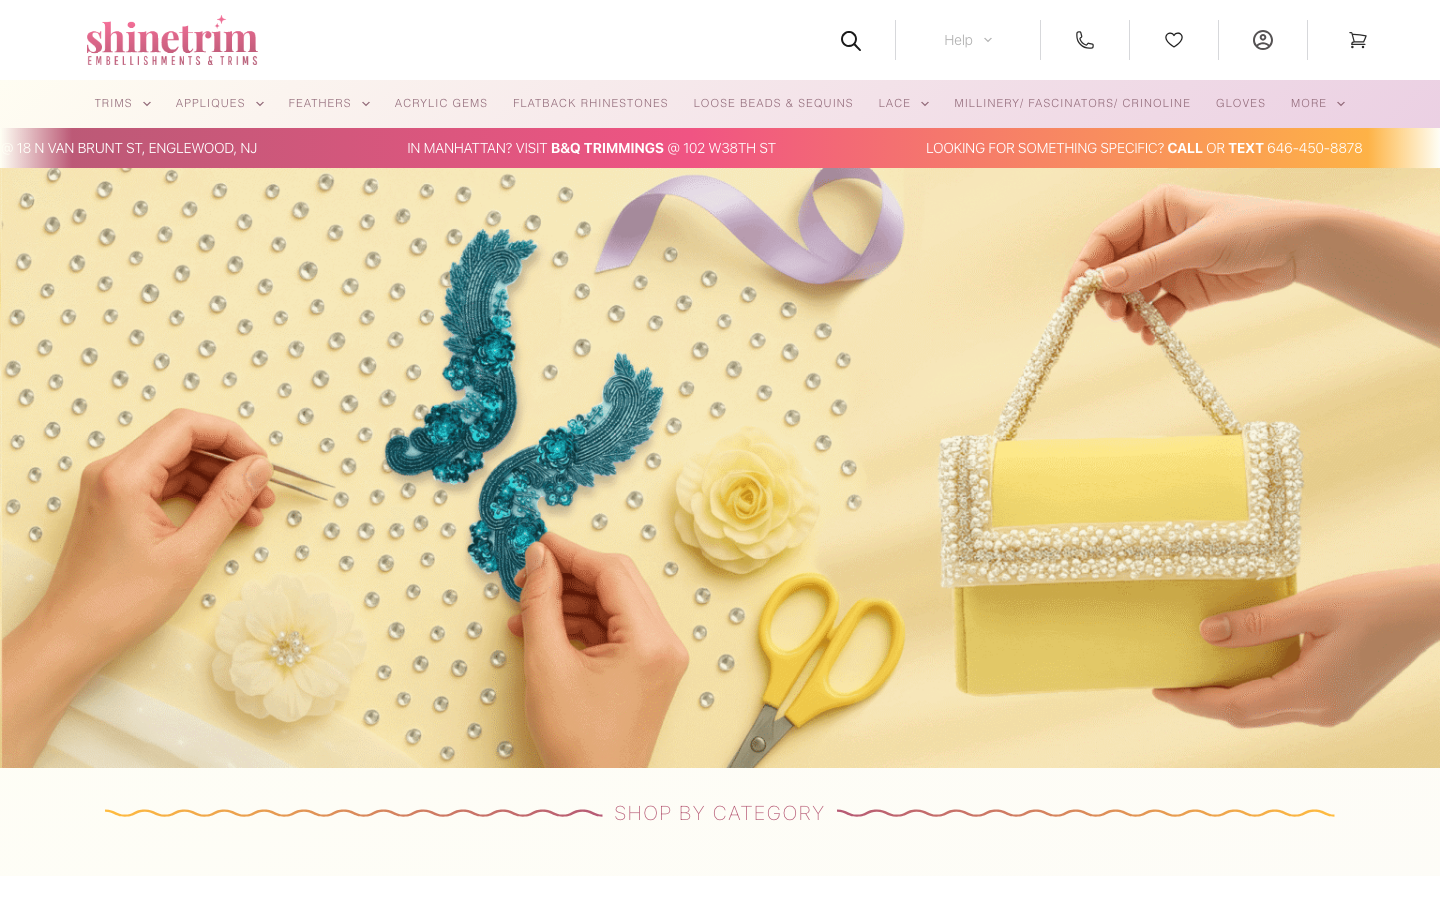
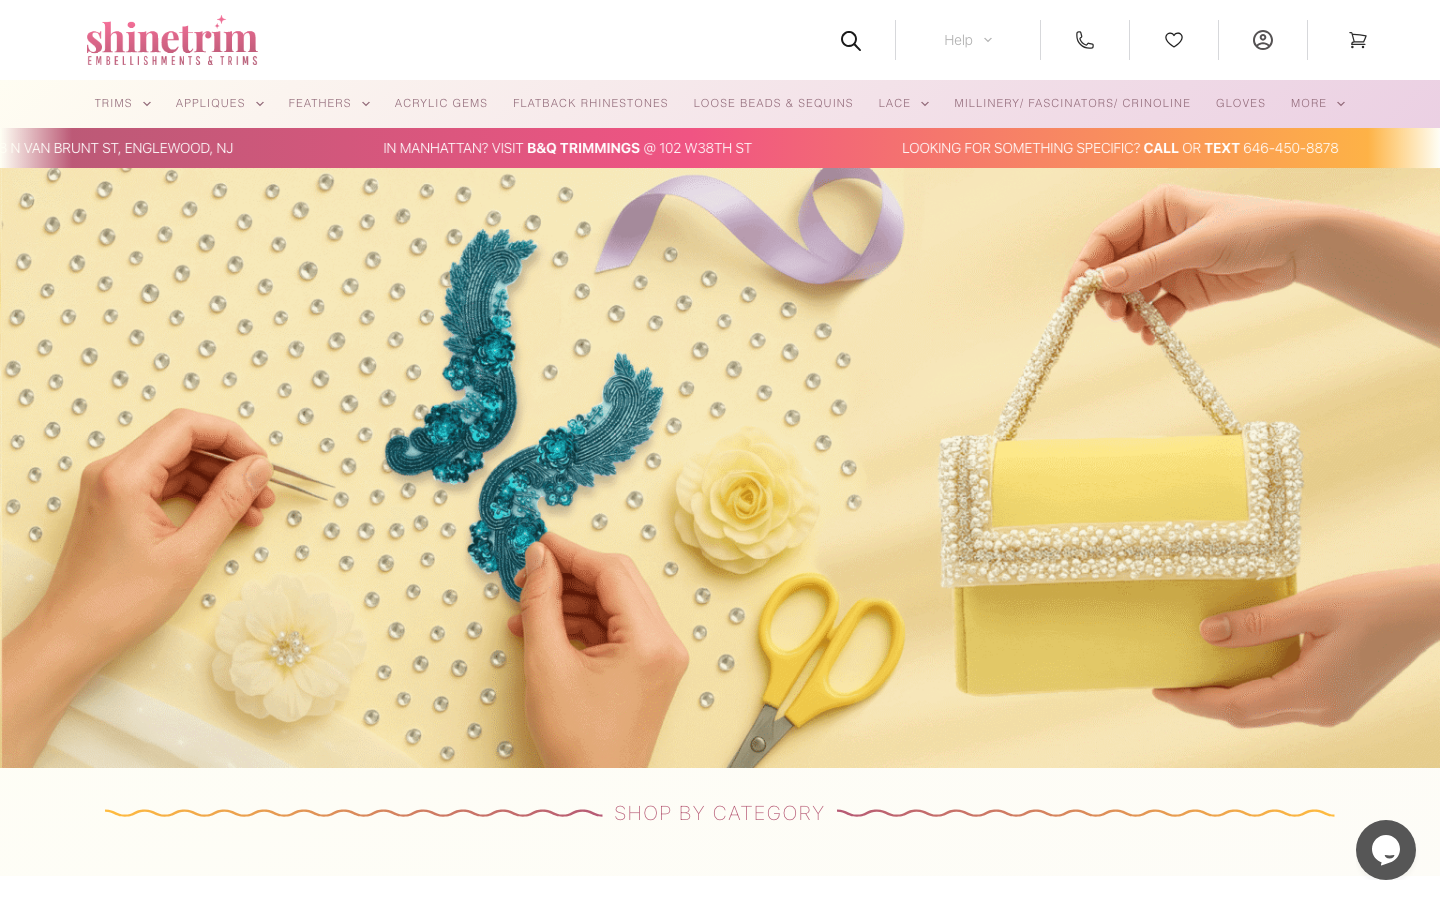
fix: retake all screenshots + script URLs + smart time tracker type
- Recapture all 8 client screenshots with correct URLs
- Fix script: byronbaycandles.com, dancewear.co.uk, remove kajalnaina
- Add UA spoof + CF detection + dual strategy to script
- Smart Time Tracker: type open-source → in-development

diff --git a/scripts/capture-screenshots.ts b/scripts/capture-screenshots.ts
@@ -3,51 +3,77 @@ import path from 'path';
 import fs from 'fs';
 
 const sites = [
-  { id: 'byronbaycandles', url: 'https://byronbaycandles.com.au' },
+  { id: 'byronbaycandles', url: 'https://byronbaycandles.com' },
   { id: 'gourmetbasket', url: 'https://gourmetbasket.com.au' },
-  { id: 'porselli', url: 'https://porselli.co.uk' },
+  { id: 'porselli', url: 'https://dancewear.co.uk' },
   { id: 'jackiemackdesigns', url: 'https://jackiemackdesigns.com' },
   { id: 'henryholsters', url: 'https://henryholsters.com' },
   { id: 'shinetrim', url: 'https://shinetrim.com' },
   { id: 'squadronnostalgia', url: 'https://squadronnostalgia.com' },
   { id: 'choiceammunition', url: 'https://choiceammunition.com' },
-  { id: 'kajalnaina', url: 'https://kajalnaina.com' },
 ];
 
 const outputDir = path.join(process.cwd(), 'public', 'screenshots');
 
+const CF_SIGNALS = ['just a moment', 'attention required', 'verify you are human', 'access denied', 'challenge-form'];
+
+function isCfChallenge(text: string): boolean {
+  const lower = text.toLowerCase();
+  return CF_SIGNALS.some((s) => lower.includes(s));
+}
+
 async function main() {
   fs.mkdirSync(outputDir, { recursive: true });
 
-  const browser = await chromium.launch({ headless: true });
+  const browser = await chromium.launch({
+    headless: true,
+    args: ['--no-sandbox', '--disable-setuid-sandbox'],
+  });
 
   for (const site of sites) {
     const outputPath = path.join(outputDir, `${site.id}.png`);
     console.log(`Capturing ${site.url}...`);
 
-    try {
-      const page = await browser.newPage();
-      await page.setViewportSize({ width: 1440, height: 900 });
-      await page.goto(site.url, { waitUntil: 'networkidle', timeout: 30000 });
+    let captured = false;
 
-      // Check for CF challenge
-      const title = await page.title();
-      if (title.toLowerCase().includes('just a moment') || title.toLowerCase().includes('attention required')) {
-        console.warn(`  CF challenge detected for ${site.url} — skipping`);
-        await page.close();
-        continue;
+    for (const waitUntil of ['load', 'domcontentloaded'] as const) {
+      if (captured) break;
+      try {
+        const context = await browser.newContext({
+          ignoreHTTPSErrors: true,
+          userAgent: 'Mozilla/5.0 (Macintosh; Intel Mac OS X 10_15_7) AppleWebKit/537.36 (KHTML, like Gecko) Chrome/120.0.0.0 Safari/537.36',
+        });
+        const page = await context.newPage();
+        await page.setViewportSize({ width: 1440, height: 900 });
+
+        await page.goto(site.url, { waitUntil, timeout: 45000 });
+        await page.waitForTimeout(2000);
+
+        const title = await page.title();
+        const bodySnippet = await page.evaluate(() => document.body?.innerText?.slice(0, 500) ?? '');
+
+        if (isCfChallenge(title) || isCfChallenge(bodySnippet)) {
+          console.warn(`  ⚠ CF challenge detected (${waitUntil}) — trying next strategy`);
+          await context.close();
+          continue;
+        }
+
+        await page.screenshot({ path: outputPath, type: 'png', clip: { x: 0, y: 0, width: 1440, height: 900 } });
+        console.log(`  ✓ Saved (strategy: ${waitUntil})`);
+        captured = true;
+        await context.close();
+      } catch (err) {
+        console.warn(`  ✗ ${waitUntil} failed: ${(err as Error).message.split('\n')[0]}`);
       }
+    }
 
-      await page.screenshot({ path: outputPath, type: 'png', clip: { x: 0, y: 0, width: 1440, height: 900 } });
-      console.log(`  Saved ${outputPath}`);
-      await page.close();
-    } catch (err) {
-      console.warn(`  Failed ${site.url}: ${(err as Error).message}`);
+    if (!captured) {
+      console.warn(`  ✗ All strategies failed for ${site.url} — skipping`);
     }
   }
 
   await browser.close();
-  console.log('\nScreenshot capture complete.');
+  console.log('\nDone.');
 }
 
 main().catch(console.error);

diff --git a/src/data/projects.ts b/src/data/projects.ts
@@ -48,7 +48,7 @@ export const projects: Project[] = [
   {
     id: 'smart-time-tracker',
     name: 'Smart Time Tracker',
-    type: 'open-source',
+    type: 'in-development',
     featured: true,
     description: 'Cross-platform desktop app for automated time tracking with ClickUp integration. Detects active windows, categorizes work sessions, and syncs tracked time to ClickUp tasks without manual input.',
     tech: ['Rust', 'Tauri 2.0', 'React 19', 'TypeScript', 'ClickUp OAuth', 'SQLite'],